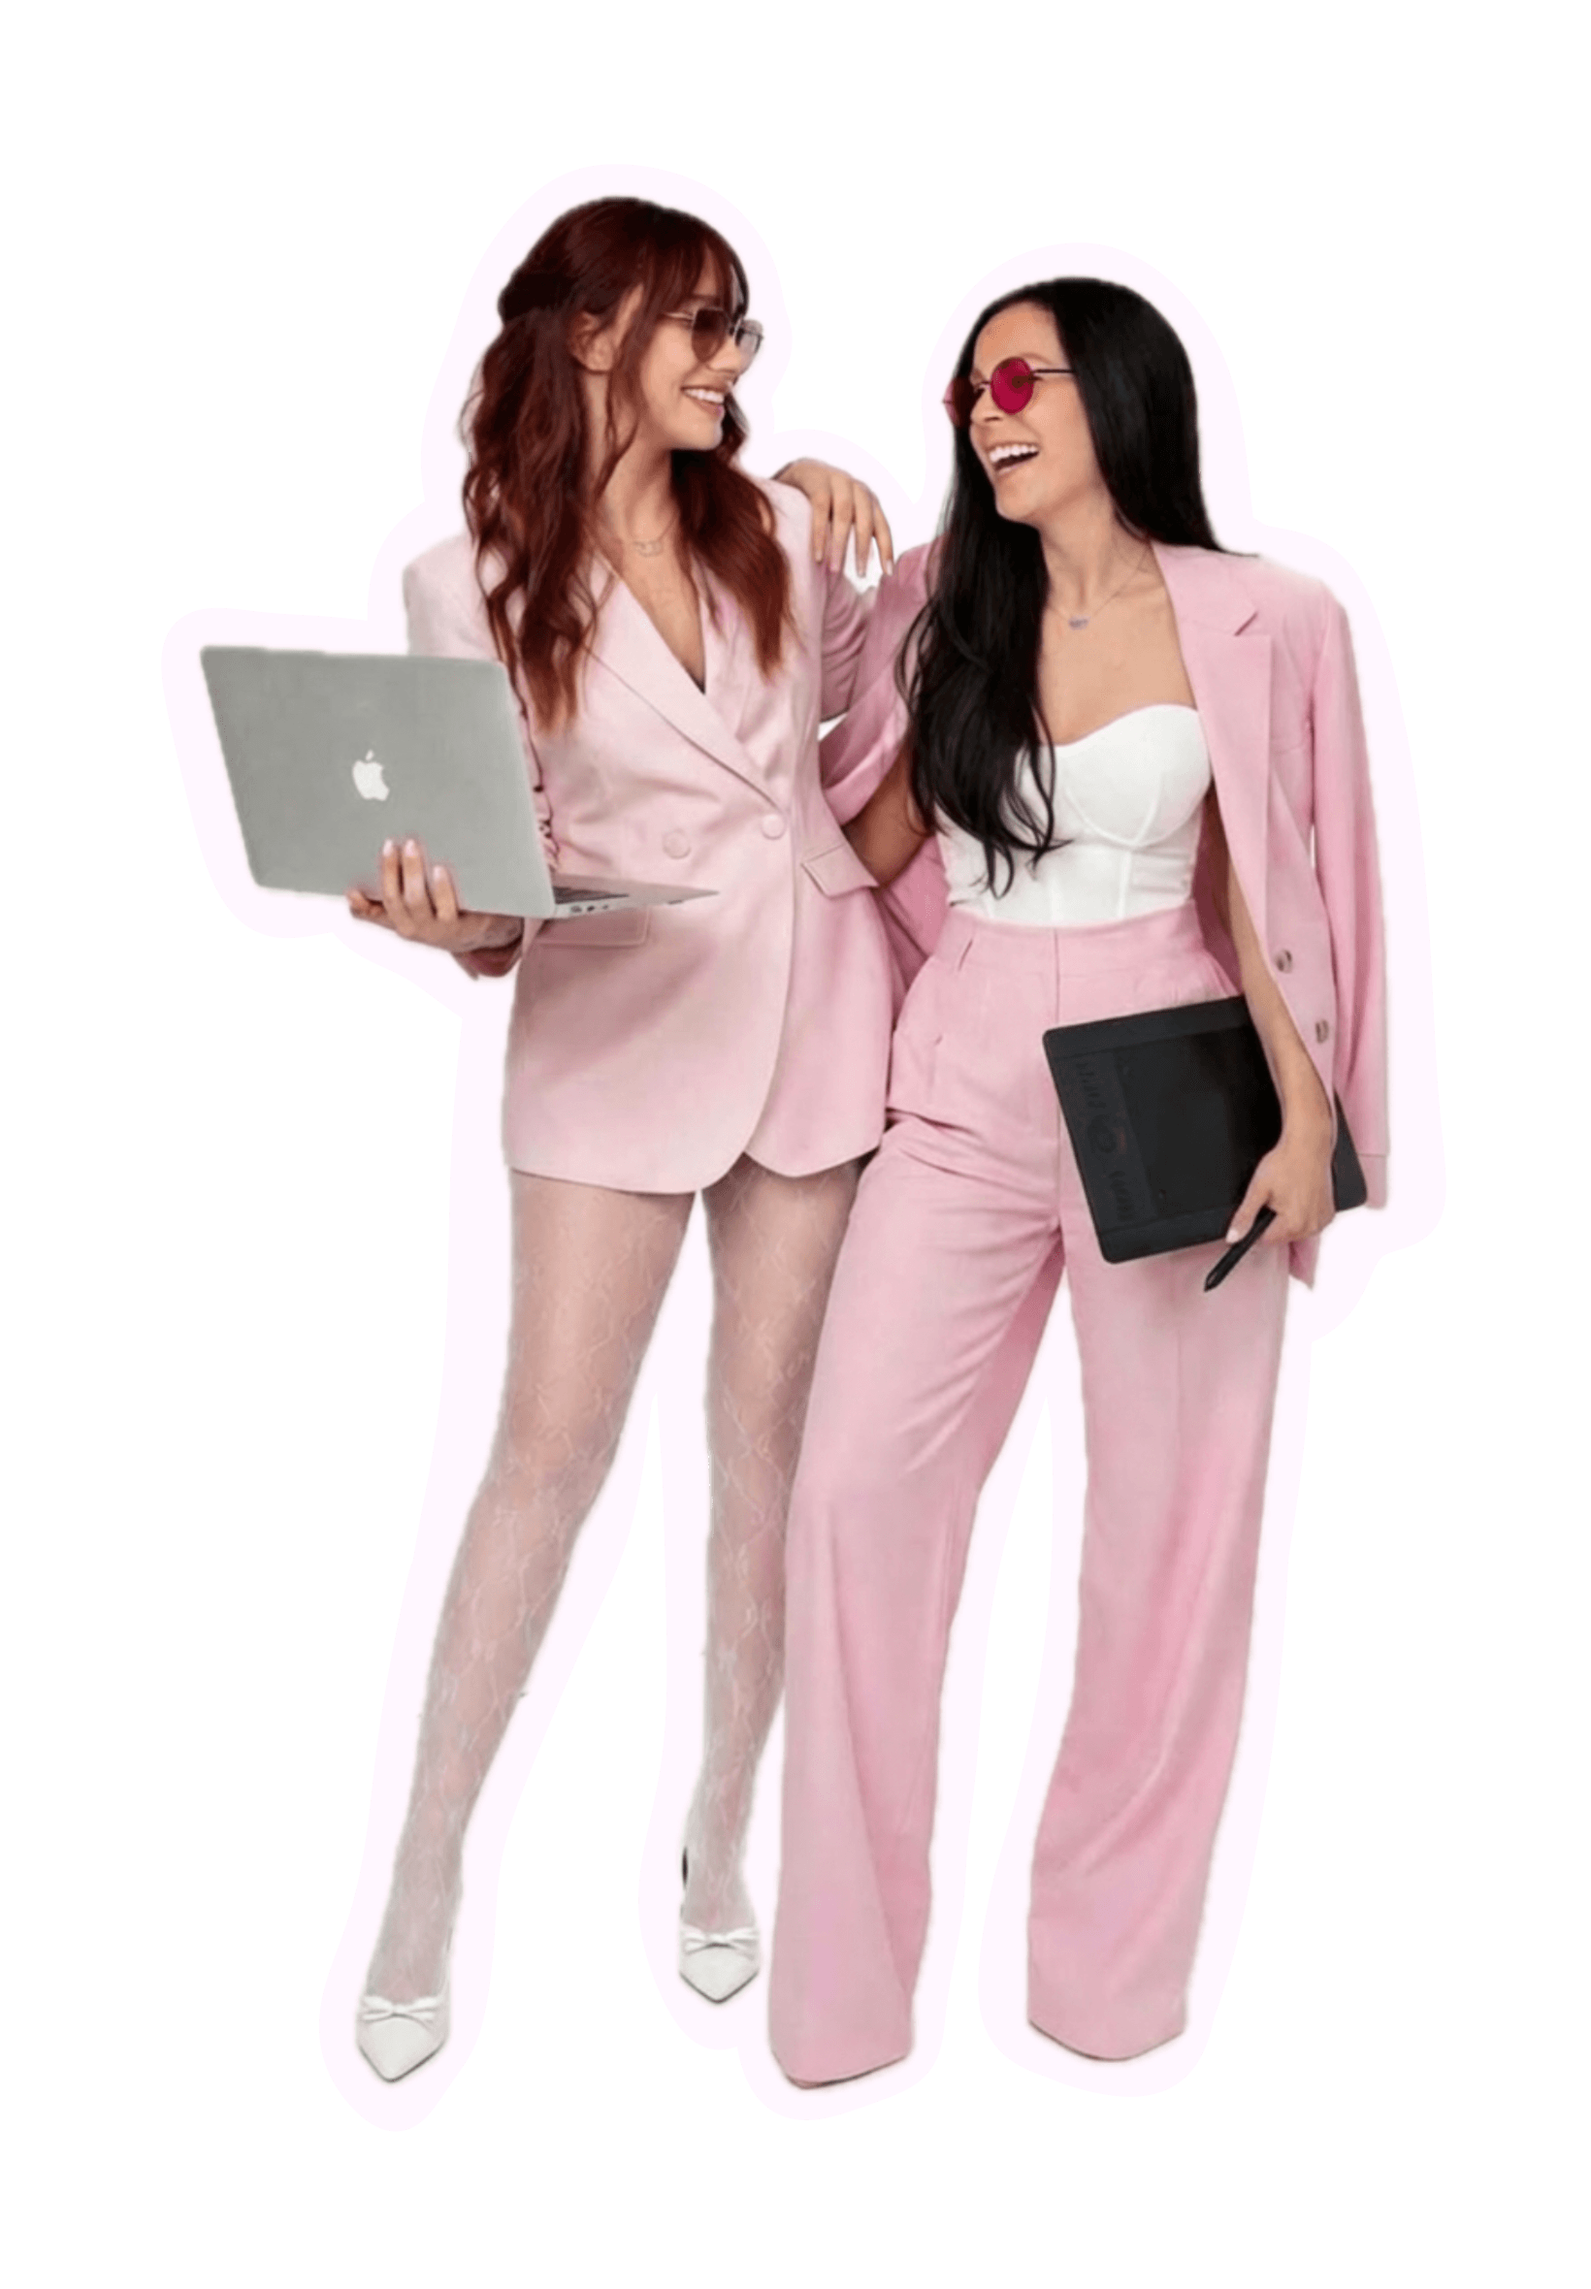
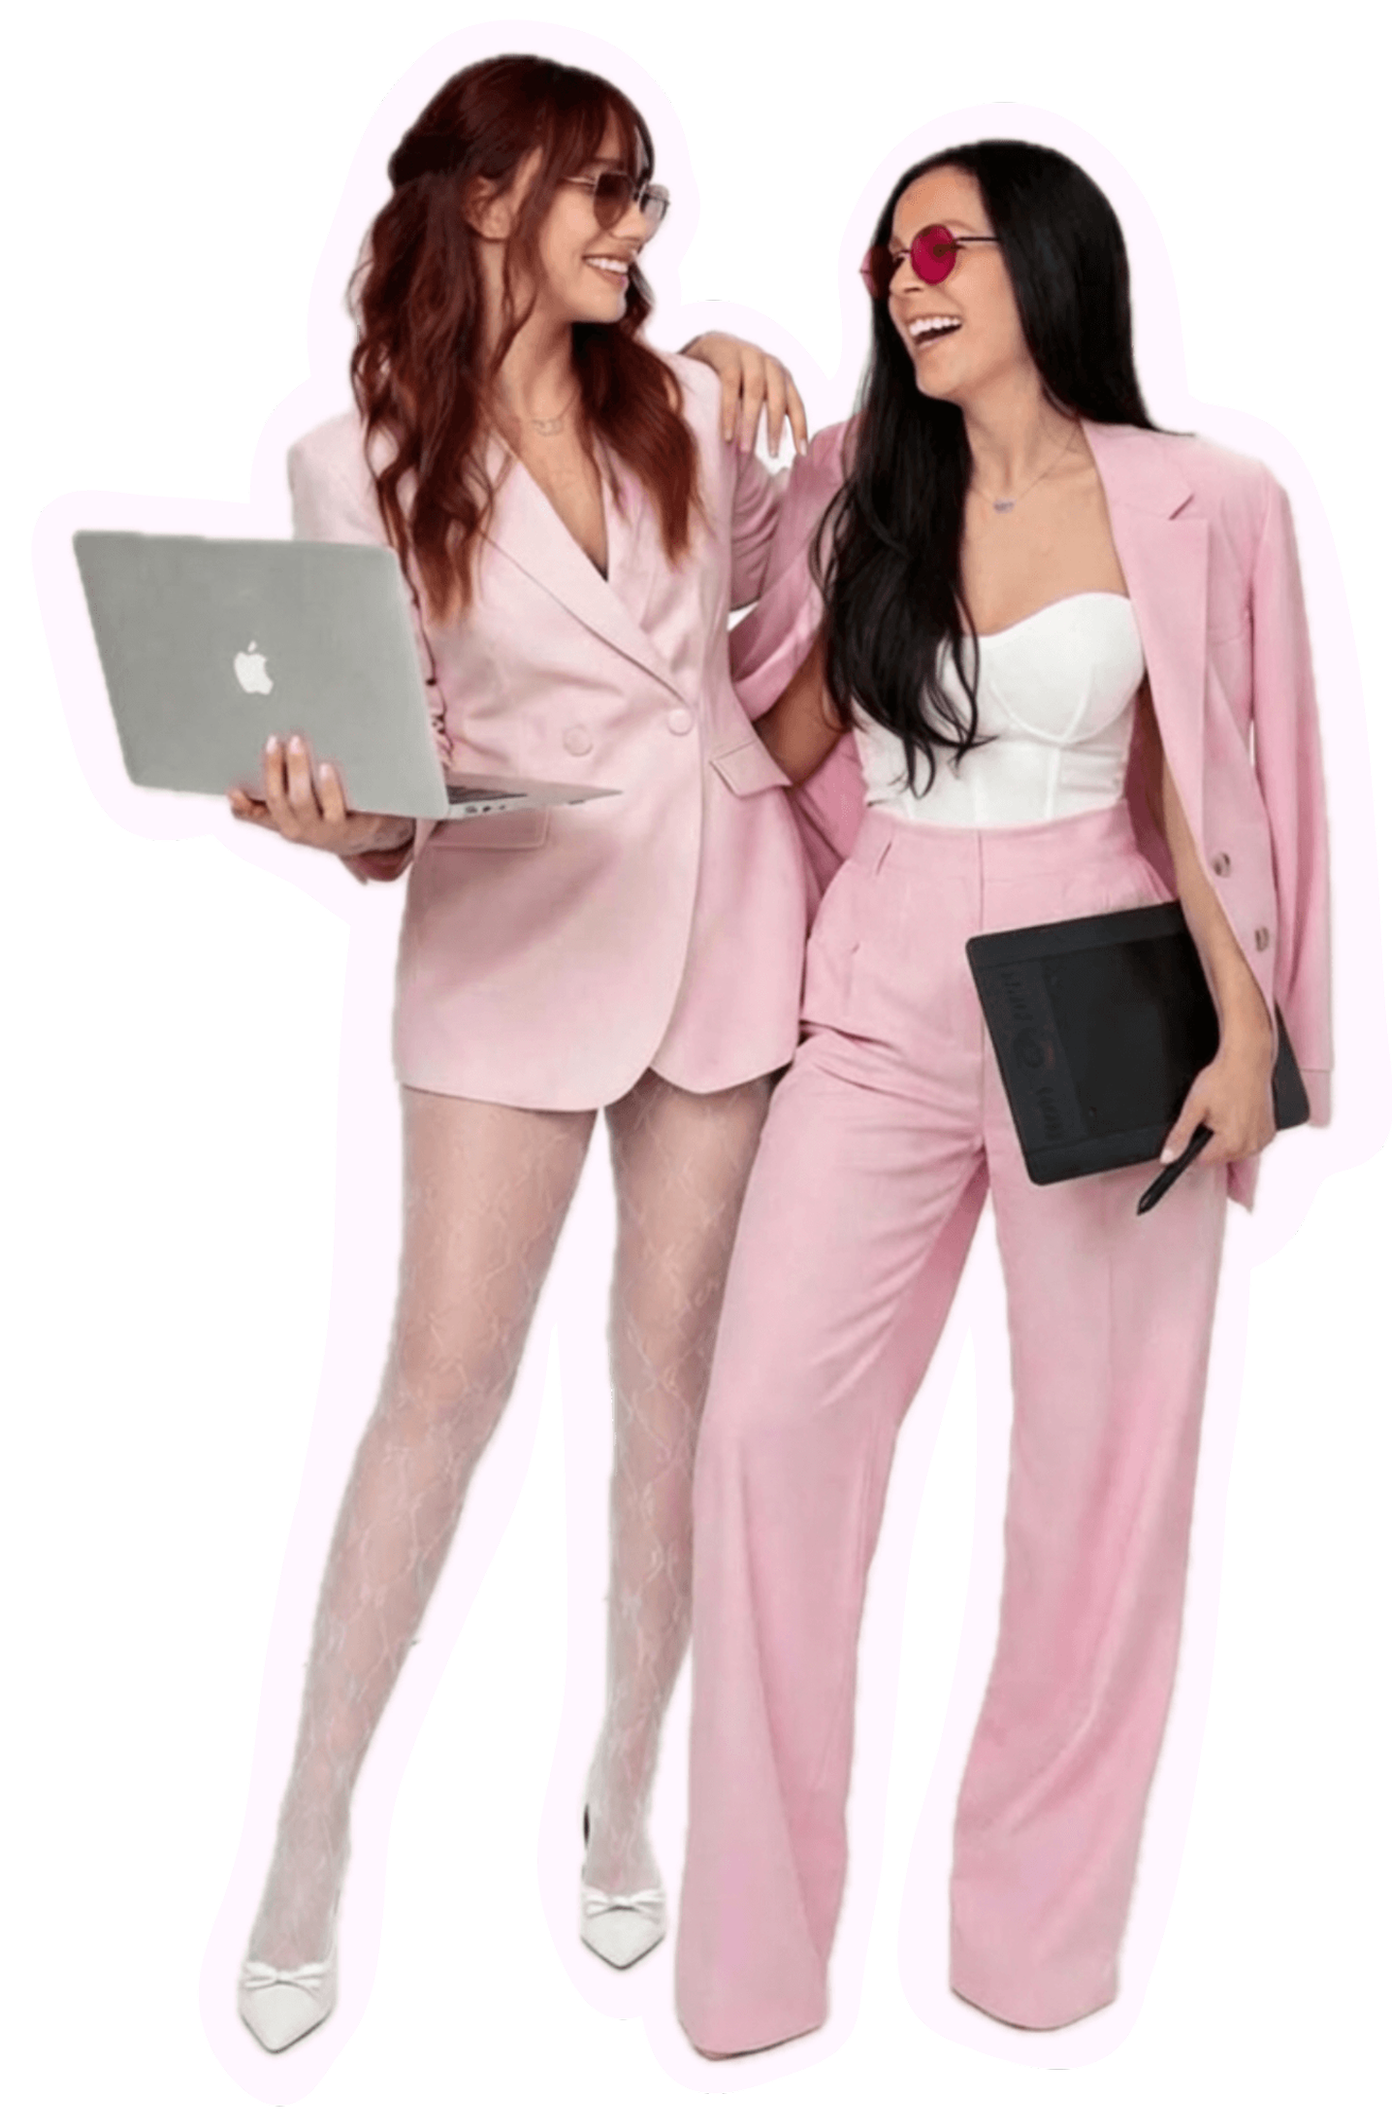
add new files

diff --git a/src/app/(public)/page.tsx b/src/app/(public)/page.tsx
@@ -12,14 +12,11 @@ import RotatingText from "@/components/RotatingText";
 import LiquidEther from "@/components/LiquidEther";
 import TextType from "@/components/TextType";
 import { ContactSection } from "@/components/sections/contact-section";
+import { HeroStickerMotion } from "@/components/sections/hero-sticker-motion";
 import { StickerWindows } from "@/components/sections/sticker-windows";
 import { homeContent, serviceCards } from "@/content/site/home";
 
 gsap.registerPlugin(ScrollTrigger);
-
-const heroStickers = [
-  { id: "h1", src: "/brand/stickers/sticker-1.png", x: 84, y: 74, w: 380, rotate: -9, delay: 0.18 },
-];
 
 const teamStickers = [
   { id: "t1", src: "/brand/stickers/STICKER7.png", x: 15, y: 68, w: 400, rotate: 7, delay: 0.18 },
@@ -226,7 +223,7 @@ export default function HomePage() {
       <section
         id="hero"
         ref={heroScopeRef}
-        className="vh-section relative isolate min-h-screen overflow-hidden border-y-2 border-black bg-[#f4ede6]"
+        className="relative isolate flex min-h-[100dvh] flex-col overflow-hidden border-y-2 border-black bg-[#f4ede6]"
       >
         <div className="absolute inset-0 z-0">
           <LiquidEther
@@ -248,60 +245,76 @@ export default function HomePage() {
           />
         </div>
         <div className="absolute inset-0 z-[1] bg-[url('https://grainy-gradients.vercel.app/noise.svg')] opacity-15 mix-blend-multiply" />
-        <StickerWindows items={heroStickers} />
 
-        <div className="relative z-10 mx-auto flex min-h-screen max-w-[1080px] flex-col items-center justify-center px-4 pb-14 pt-24 text-center md:pt-28">
-          <p className="hero-soft-line inline-flex rotate-[-1.4deg] items-center gap-2 rounded-full bg-black px-4 py-1 text-[10px] uppercase tracking-[0.2em] text-[#f4ede6]">
-            <span>◆</span>
-            LAS GIRLS+ · BRANDING · TECH · ESTRATEGIA
-            <span>◆</span>
-          </p>
+        <div className="hero-split relative z-10 flex min-h-0 flex-1 flex-col items-center justify-center px-4 pb-10 pt-[max(4.25rem,env(safe-area-inset-top,0px)+3.25rem)] md:px-6 md:pb-12 md:pt-24 lg:px-10">
+          {/* Stage: conjunto centrado en viewport. Grid = dos masas (izq figura / der copy), sin overlay. */}
+          <div className="hero-split__stage mx-auto w-full max-w-[min(1240px,calc(100vw-1.25rem))]">
+            <div className="grid grid-cols-1 items-center gap-y-10 md:grid-cols-[minmax(0,42fr)_minmax(0,50fr)] md:items-center md:gap-x-8 lg:gap-x-11 xl:gap-x-14">
+              <div className="hero-split__figure-area flex w-full min-w-0 flex-col items-center justify-end md:items-stretch">
+                <div className="relative w-full max-w-[min(22rem,88vw)] md:max-w-none">
+                  <div className="relative mx-auto h-[min(76dvh,50rem)] w-full md:mx-0 md:h-[min(95dvh,calc(100dvh-5rem))] md:max-h-[min(98dvh,1000px)]">
+                    <HeroStickerMotion />
+                  </div>
+                </div>
+              </div>
 
-          <h1 className="hero-main-line mt-8 w-full font-display text-[16vw] uppercase leading-[0.84] text-black md:text-[8.6rem] lg:text-[10.5rem]">
-            SOLUCIONES
-          </h1>
-          <h1 className="hero-main-line w-full font-display text-[16vw] uppercase leading-[0.84] text-black md:text-[8.6rem] lg:text-[10.5rem]">
-            DIGITALES QUE
-          </h1>
-          <div className="hero-rotating-reveal mt-1 flex w-full items-center justify-center bg-black py-1">
-            <div className="hero-rotating-shell flex min-h-[0.9em] items-center justify-center overflow-hidden">
-              <RotatingText
-                texts={heroRotatingWords}
-                rotationInterval={1850}
-                auto
-                loop
-                splitBy="words"
-                transition={{ type: "spring", damping: 24, stiffness: 310 }}
-                initial={{ y: "100%", opacity: 0 }}
-                animate={{ y: 0, opacity: 1 }}
-                exit={{ y: "-120%", opacity: 0 }}
-                mainClassName="hero-rotating-main"
-                splitLevelClassName="hero-rotating-word"
-                elementLevelClassName="hero-rotating-char"
-              />
+              <div className="hero-split__copy-area flex min-w-0 flex-col items-start justify-center text-left">
+                <p className="hero-soft-line inline-flex rotate-[-1.4deg] items-center gap-2 rounded-full bg-black px-4 py-1.5 text-[11px] uppercase tracking-[0.2em] text-[#f4ede6] md:text-xs">
+                  <span>◆</span>
+                  LAS GIRLS+ · BRANDING · TECH · ESTRATEGIA
+                  <span>◆</span>
+                </p>
+
+                <h1 className="hero-main-line mt-6 w-full font-display text-[13vw] uppercase leading-[0.84] text-black sm:text-[10vw] md:mt-8 md:max-w-[20ch] md:text-[clamp(3rem,4.6vw,6.6rem)] lg:text-[clamp(3.35rem,4.35vw,7.25rem)]">
+                  SOLUCIONES
+                </h1>
+                <h1 className="hero-main-line w-full font-display text-[13vw] uppercase leading-[0.84] text-black sm:text-[10vw] md:max-w-[20ch] md:text-[clamp(3rem,4.6vw,6.6rem)] lg:text-[clamp(3.35rem,4.35vw,7.25rem)]">
+                  DIGITALES QUE
+                </h1>
+                <div className="hero-rotating-reveal mt-1 flex w-full min-w-0 max-w-full items-stretch justify-start bg-black py-1 pl-0 pr-2">
+                  <div className="hero-rotating-shell flex min-h-[0.9em] w-full min-w-0 items-center justify-start overflow-hidden">
+                    <RotatingText
+                      texts={heroRotatingWords}
+                      rotationInterval={1850}
+                      auto
+                      loop
+                      splitBy="words"
+                      transition={{ type: "spring", damping: 24, stiffness: 310 }}
+                      initial={{ y: "100%", opacity: 0 }}
+                      animate={{ y: 0, opacity: 1 }}
+                      exit={{ y: "-120%", opacity: 0 }}
+                      mainClassName="hero-rotating-main"
+                      splitLevelClassName="hero-rotating-word"
+                      elementLevelClassName="hero-rotating-char"
+                    />
+                  </div>
+                </div>
+                <p className="hero-soft-line mt-3 font-accent text-5xl text-black sm:text-6xl lg:text-7xl xl:text-8xl">
+                  no que decoran
+                </p>
+
+                <div className="hero-soft-line mt-8 h-[2px] w-full max-w-[520px] bg-black" />
+                <p className="hero-soft-line mt-5 w-full max-w-[36rem] text-base leading-relaxed text-black/80 lg:text-lg">
+                  No necesitás tener todo claro. Si tenés una idea -aunque esté en cero- te ayudamos a bajarla, ordenarla y
+                  convertirla en algo que funcione de verdad.
+                </p>
+
+                <div className="hero-soft-line relative z-20 mt-7 flex flex-wrap items-center justify-start gap-3">
+                  <Link href="#contacto" className="hero-cta hero-cta--dark">
+                    EMPEZAR AHORA
+                  </Link>
+                  <Link href="#servicios" className="hero-cta hero-cta--light">
+                    VER SERVICIOS
+                  </Link>
+                </div>
+
+                <div className="hero-soft-line relative z-20 mt-7 flex w-full max-w-[36rem] flex-wrap items-start gap-x-2 gap-y-1 text-sm text-black/72">
+                  <span>Primera consulta sin costo</span>
+                  <span className="hidden sm:inline">·</span>
+                  <span>Te ayudamos a entender qué necesitás antes de venderte algo</span>
+                </div>
+              </div>
             </div>
-          </div>
-          <p className="hero-soft-line mt-3 font-accent text-5xl text-black lg:text-7xl">no que decoran</p>
-
-          <div className="hero-soft-line mt-8 h-[2px] w-full max-w-[520px] bg-black" />
-          <p className="hero-soft-line mt-5 max-w-[620px] text-sm leading-relaxed text-black/80 lg:text-base">
-            No necesitás tener todo claro. Si tenés una idea -aunque esté en cero- te ayudamos a bajarla, ordenarla y
-            convertirla en algo que funcione de verdad.
-          </p>
-
-          <div className="hero-soft-line mt-7 flex flex-wrap items-center justify-center gap-3">
-            <Link href="/contact" className="hero-cta hero-cta--dark">
-              EMPEZAR AHORA
-            </Link>
-            <Link href="#servicios" className="hero-cta hero-cta--light">
-              VER SERVICIOS
-            </Link>
-          </div>
-
-          <div className="hero-soft-line mt-7 inline-flex flex-wrap items-center justify-center gap-2 text-xs text-black/72">
-            <span>Primera consulta sin costo</span>
-            <span>·</span>
-            <span>Te ayudamos a entender qué necesitás antes de venderte algo</span>
           </div>
         </div>
         <div className="absolute right-5 top-20 z-[12] hidden lg:block">

diff --git a/src/components/sections/hero-sticker-motion.tsx b/src/components/sections/hero-sticker-motion.tsx
@@ -1,0 +1,46 @@
+"use client";
+
+import Image from "next/image";
+import { useEffect, useState } from "react";
+
+const FRAMES = ["/LASGIRLSS/STIKER-004.png", "/LASGIRLSS/STIKER-001.png"];
+
+const TICK_MS = 1350;
+
+type Props = {
+  /**
+   * Contenedor con altura definida. Misma caja para todos los frames → misma escala y ancla;
+   * solo cambia el PNG (sin transform extra) para que el layout no “salte” entre slides.
+   */
+  className?: string;
+};
+
+export function HeroStickerMotion({ className = "" }: Props) {
+  const [tick, setTick] = useState(0);
+
+  useEffect(() => {
+    const id = window.setInterval(() => setTick((t) => t + 1), TICK_MS);
+    return () => window.clearInterval(id);
+  }, []);
+
+  const i = tick % 2;
+
+  return (
+    <div
+      className={`hero-sticker-motion pointer-events-none relative z-[11] flex h-full min-h-0 w-full items-end justify-center md:justify-start ${className}`}
+      aria-hidden
+    >
+      <div className="relative flex h-full min-h-0 w-auto max-w-full items-end">
+        <Image
+          src={FRAMES[i]}
+          alt=""
+          width={1200}
+          height={1500}
+          sizes="(max-width: 767px) 90vw, 42vw"
+          priority
+          className="h-full max-h-full w-auto max-w-full object-contain object-bottom object-center drop-shadow-[8px_18px_0_rgba(17,17,17,0.09)] md:object-left"
+        />
+      </div>
+    </div>
+  );
+}

diff --git a/src/app/globals.css b/src/app/globals.css
@@ -748,6 +748,27 @@ a {
   color: #ff5faf;
 }
 
+/* Hero split: figura izquierda + panel de copy derecha (sin overlay) */
+.hero-split .hero-rotating-shell {
+  width: 100%;
+  max-width: none;
+}
+
+.hero-split .hero-rotating-main,
+.hero-split .hero-rotating-word {
+  justify-content: flex-start;
+}
+
+.hero-split .hero-rotating-char {
+  font-size: clamp(2.35rem, 10.5vw, 4.5rem);
+}
+
+@media (min-width: 768px) {
+  .hero-split .hero-rotating-char {
+    font-size: clamp(2.5rem, 4.15vw, 5.65rem);
+  }
+}
+
 .psychedelic-card {
   background:
     linear-gradient(135deg, rgba(255, 79, 169, 0.14), transparent 35%),
